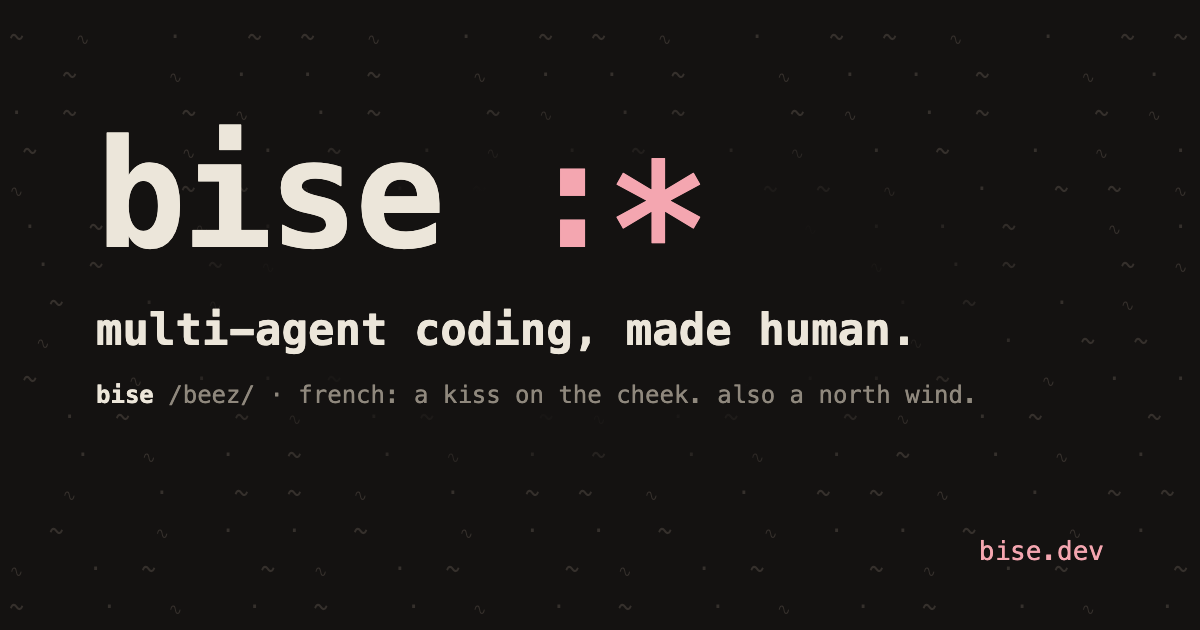
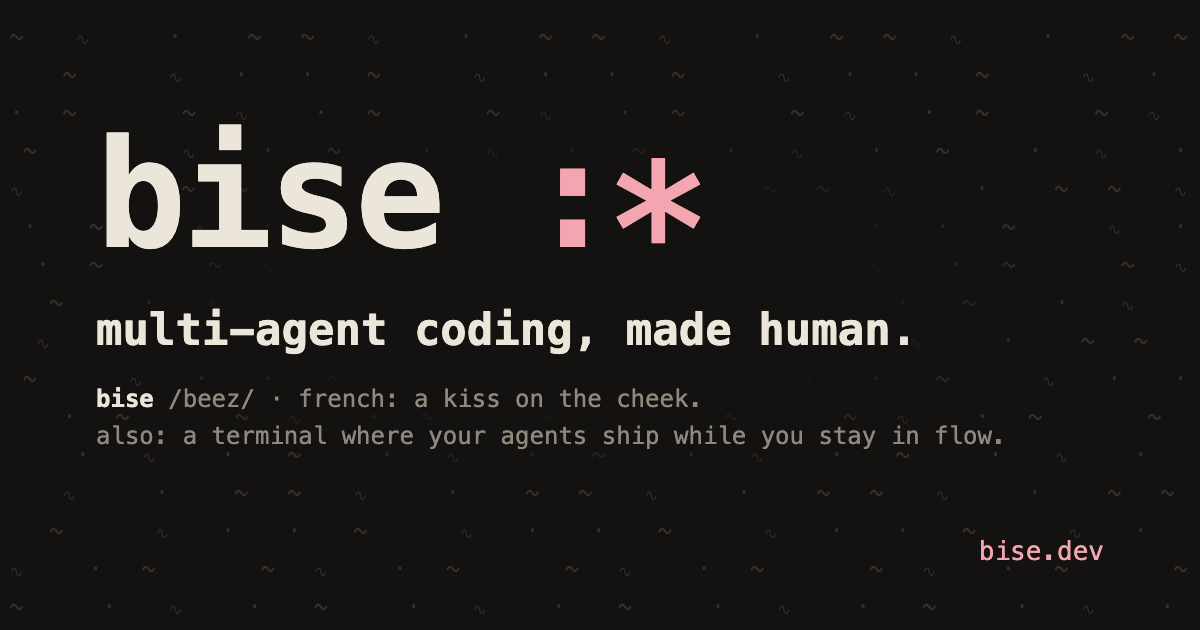
brand/site: og image says what bise is (no wind)

Changed region(s): [[0.0617, 0.6032, 0.8325, 0.7238]]

diff --git a/projects/switchboard/docs/brand/readme/src/og.html b/projects/switchboard/docs/brand/readme/src/og.html
@@ -5,7 +5,7 @@ pre{position:absolute;inset:0;margin:0;padding:18px 0 0 10px;color:#35302c;font-
 .big{font-size:150px;font-weight:700;color:#ece6da;letter-spacing:-4px;line-height:1}
 .big span{color:#f4a6b0}
 .t1{font-size:44px;color:#ece6da;margin-top:34px;font-weight:600}
-.g{font-size:24px;color:#8f887d;margin-top:26px}
+.g{font-size:24px;line-height:1.55;color:#8f887d;margin-top:26px}
 .g b{color:#ece6da;font-weight:600}
 .url{position:absolute;right:96px;bottom:64px;font-size:26px;color:#f4a6b0}
 .bg{position:absolute;left:70px;top:96px;width:1000px;height:400px;background:radial-gradient(closest-side,#141211 55%,transparent)}
@@ -27,5 +27,5 @@ pre{position:absolute;inset:0;margin:0;padding:18px 0 0 10px;color:#35302c;font-
 ~      ·    ∿     ·    ~      ·    ∿     ·    ~      ·    ∿     ·    ~      ·    ∿     ·    ~      ·    ∿     · </pre><div class="bg"></div><div class="card">
 <div class="big">bise <span>:*</span></div>
 <div class="t1">multi-agent coding, made human.</div>
-<div class="g"><b>bise</b> /beez/ · french: a kiss on the cheek. also a north wind.</div>
+<div class="g"><b>bise</b> /beez/ · french: a kiss on the cheek.<br>also: a terminal where your agents ship while you stay in flow.</div>
 </div><div class="url">bise.dev</div></body></html>
